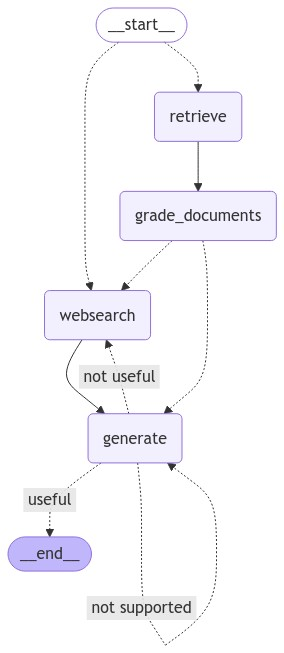
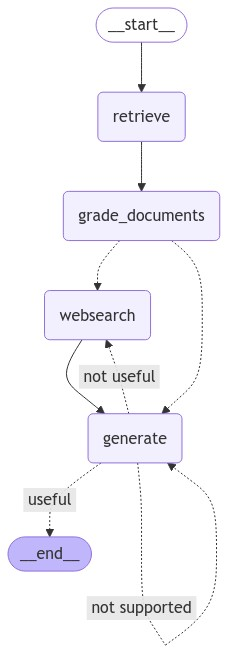
chat capability

diff --git a/components/nodes.py b/components/nodes.py
@@ -63,8 +63,8 @@ def web_search_node(state: GraphState) -> Dict[str, Any]:
         Dict[str, Any]: The updated state with the web search results appended to the documents.
     """
 
-    question = state["question"]
-    documents = state["documents"]
+    question = state.get("question")
+    documents = state.get("documents")
     logger.info("Performing web search for question: {}", question)
 
     docs = web_search_tool.invoke({"query": question})
@@ -88,8 +88,8 @@ def grade_documents_node(state: GraphState) -> Dict[str, Any]:
         Dict[str, Any]: The updated state with relevant documents and a web search flag if necessary.
     """
 
-    question = state["question"]
-    documents = state["documents"]
+    question = state.get("question")
+    documents = state.get("documents")
     logger.info("Grading relevance of documents for question...")
 
     filtered_docs = []
@@ -102,7 +102,7 @@ def grade_documents_node(state: GraphState) -> Dict[str, Any]:
             logger.info("Document {} relevant to question.",d.metadata)
             filtered_docs.append(d)
         else:
-            logger.info("Document {} not relevant to question; setting web search flag.",d.metadata)
+            logger.info("Document {} not relevant to question;",d.metadata)
             web_search = True
 
     logger.info("Filtered documents count: {}", len(filtered_docs))
@@ -117,8 +117,8 @@ def generation_node(state: GraphState) -> Dict[str, Any]:
         Dict[str, Any]: A dictionary containing the original "documents", "question", and the generated response.
     """
 
-    question = state["question"]
-    documents = state["documents"]
+    question = state.get("question")
+    documents = state.get("documents")
     logger.info("Generating response ...")
 
     generation = generation_agent.invoke({"context": documents, "question": question})
@@ -133,9 +133,9 @@ def grade_answer_node(state: GraphState) -> str:
         str: The grade of the generated answer: "useful", "not useful", or "not supported".
     """
 
-    question = state["question"]
-    documents = state["documents"]
-    generation = state["generation"]
+    question = state.get("question")
+    documents = state.get("documents")
+    generation = state.get("generation")
     logger.info("Grading generated answer ...")
 
     hallucination_score = hallucination_grader.invoke(

diff --git a/app.py b/app.py
@@ -4,14 +4,22 @@ from components.graph import app
 from loguru import logger
 load_dotenv()
 
+config = {"configurable": {"thread_id": "2"}}
+
+def main():
+    logger.info("System is ready for user queries.")
+    while True:
+        query = input("Your question: ")
+        if query.lower() == 'exit':
+            logger.info("User terminated the session.")
+            break
+        inputs = {"question": query}
+        for event in app.stream(inputs, config):
+            for _,values in event.items():
+                continue
+        #dict_keys(['question', 'generation', 'documents'])
+        logger.info(f"Final response: {values.get('generation')}")
+
 if __name__ == "__main__":
-    start = time()
-    inputs = {"question": "What are some future directions for Deep Learning Video Stabilization?"}
-    config = {"configurable": {"thread_id": "2"}}
-    for event in app.stream(inputs, config):
-        for node,values in event.items():
-            continue
-    logger.info(f"Time Elapsed {time() - start}.")
-    #dict_keys(['question', 'generation', 'documents'])
-    logger.info(f"Final response: {values.get('generation')}")
+    main()
     

diff --git a/components/graph.py b/components/graph.py
@@ -18,8 +18,6 @@ load_dotenv()
 
 
 def decide_to_generate(state):
-    print("---ASSESS GRADED DOCUMENTS---")
-
     if state["web_search"]:
         logger.info("DECISION: Not all documents are relevant to the question, proceed with web search.")
         return "websearch"
@@ -36,13 +34,14 @@ workflow.add_node("generate", generation_node)
 workflow.add_node("websearch", web_search_node)
 
 
-workflow.set_conditional_entry_point(
+'''workflow.set_conditional_entry_point(
     route_question_node,
     {
         "websearch": "websearch",
         "retrieve": "retrieve",
     },
-)
+)'''
+workflow.set_entry_point("retrieve")
 workflow.add_edge("retrieve", "grade_documents")
 workflow.add_conditional_edges(
     "grade_documents",

diff --git a/components/state.py b/components/state.py
@@ -15,4 +15,4 @@ class GraphState(TypedDict):
     question: str
     generation: str
     web_search: bool
-    documents: List[str]
+    documents: List[str] = []
